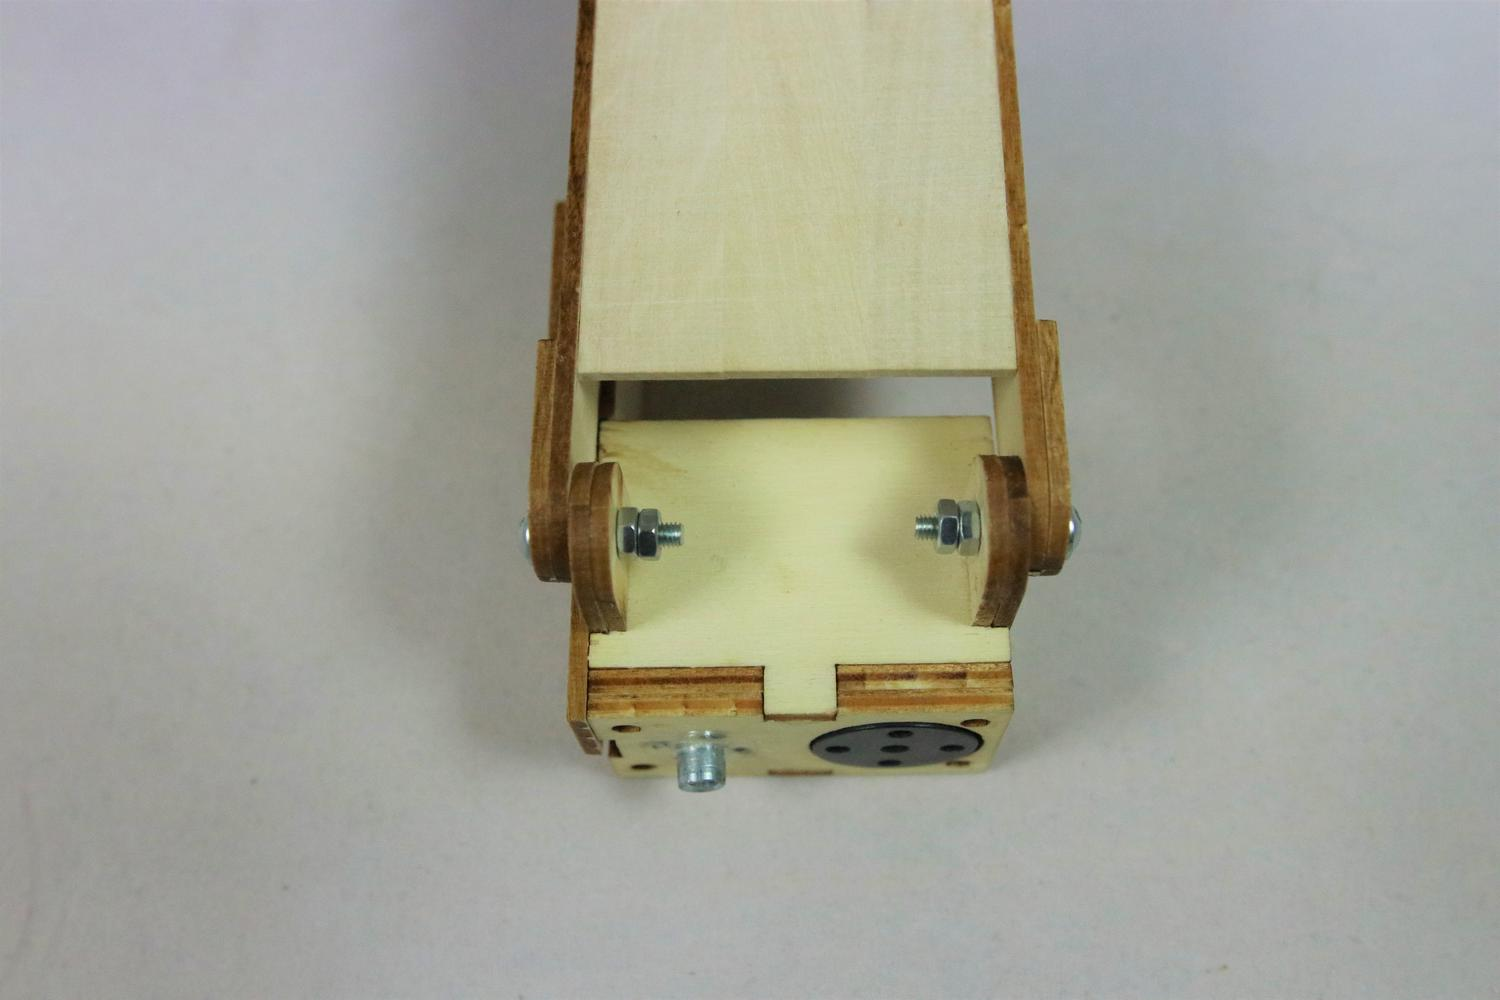
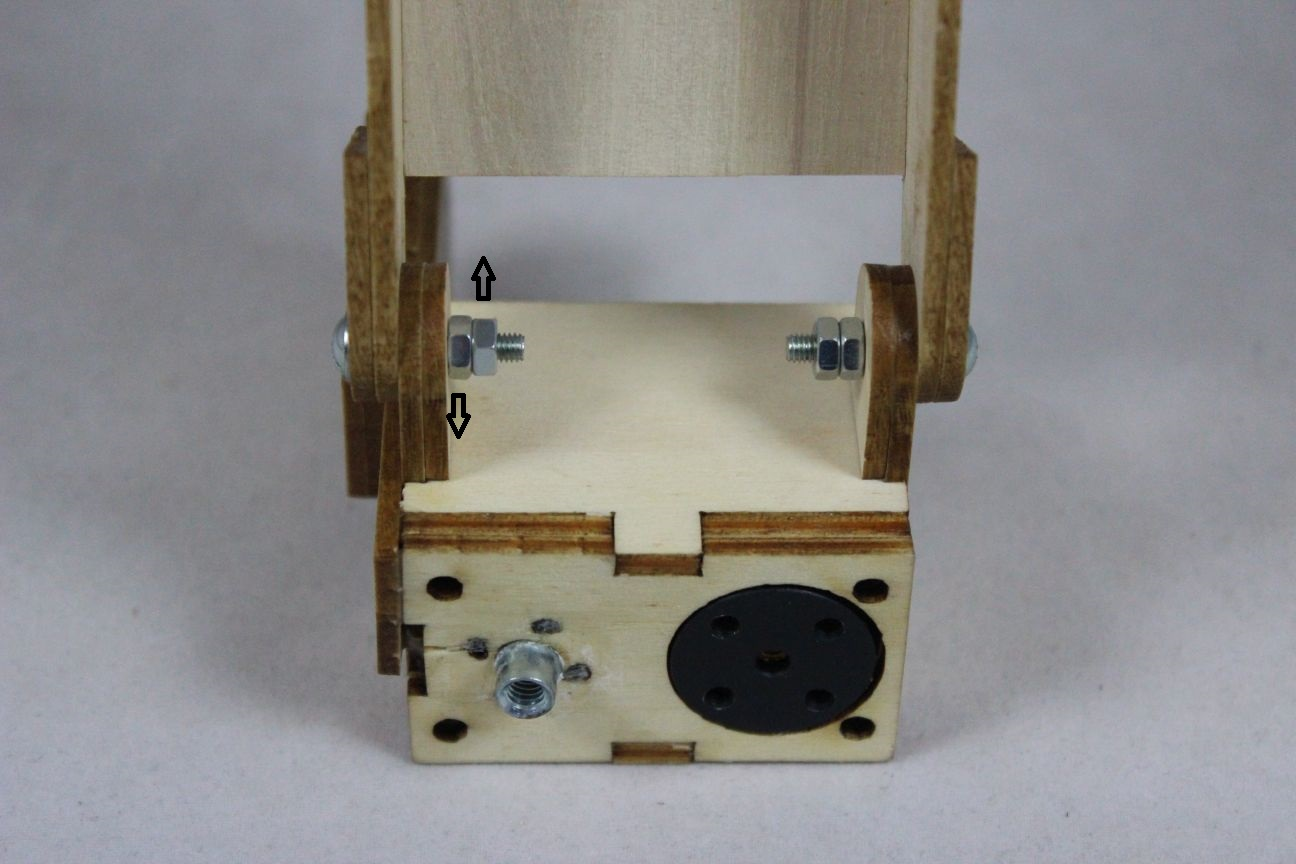
Chassis tutorial part "ruka": Fixed images of last arm section installation.

diff --git a/_guides/006b - Ruka.md b/_guides/006b - Ruka.md
@@ -237,13 +237,13 @@ name: Ruka
         "S pomocí šroubků připevněte držák serva k hornímu dílu ruky."
     url2="img/guides/HND_55.jpg"
     description2=
-        "Šroub zafixujte DVĚMA maticemi zašroubovanými za sebou."
+        "Na přidané šrouby našroubujte matice. Matice nedotahujte, aby se mohly části ruky vůči sobě otáčet."
  %}
 
   {% include image.html
     url="img/guides/HND_56.jpg"
     description=
-        "Stejným způsobem zafixujte i šroub na druhé straně."
+        "Ke každé matce našroubujte další matku a dotáhněte vůči původní matce (kontra). K tomu použijte dvoje kleště. Tímto jsou matice fixovány. Ověřte, že se mohou části ruky vůči sobě volně otáčet. (S výhodou je zde možné použít jednu samojistnou matku místo 2 kontramatek.)"
     url2="img/guides/HND_57.jpg"
     description2=
         "Připravte si horní a dolní část ruky a díl TA2 s přilepenou kruhovou podložkou."
